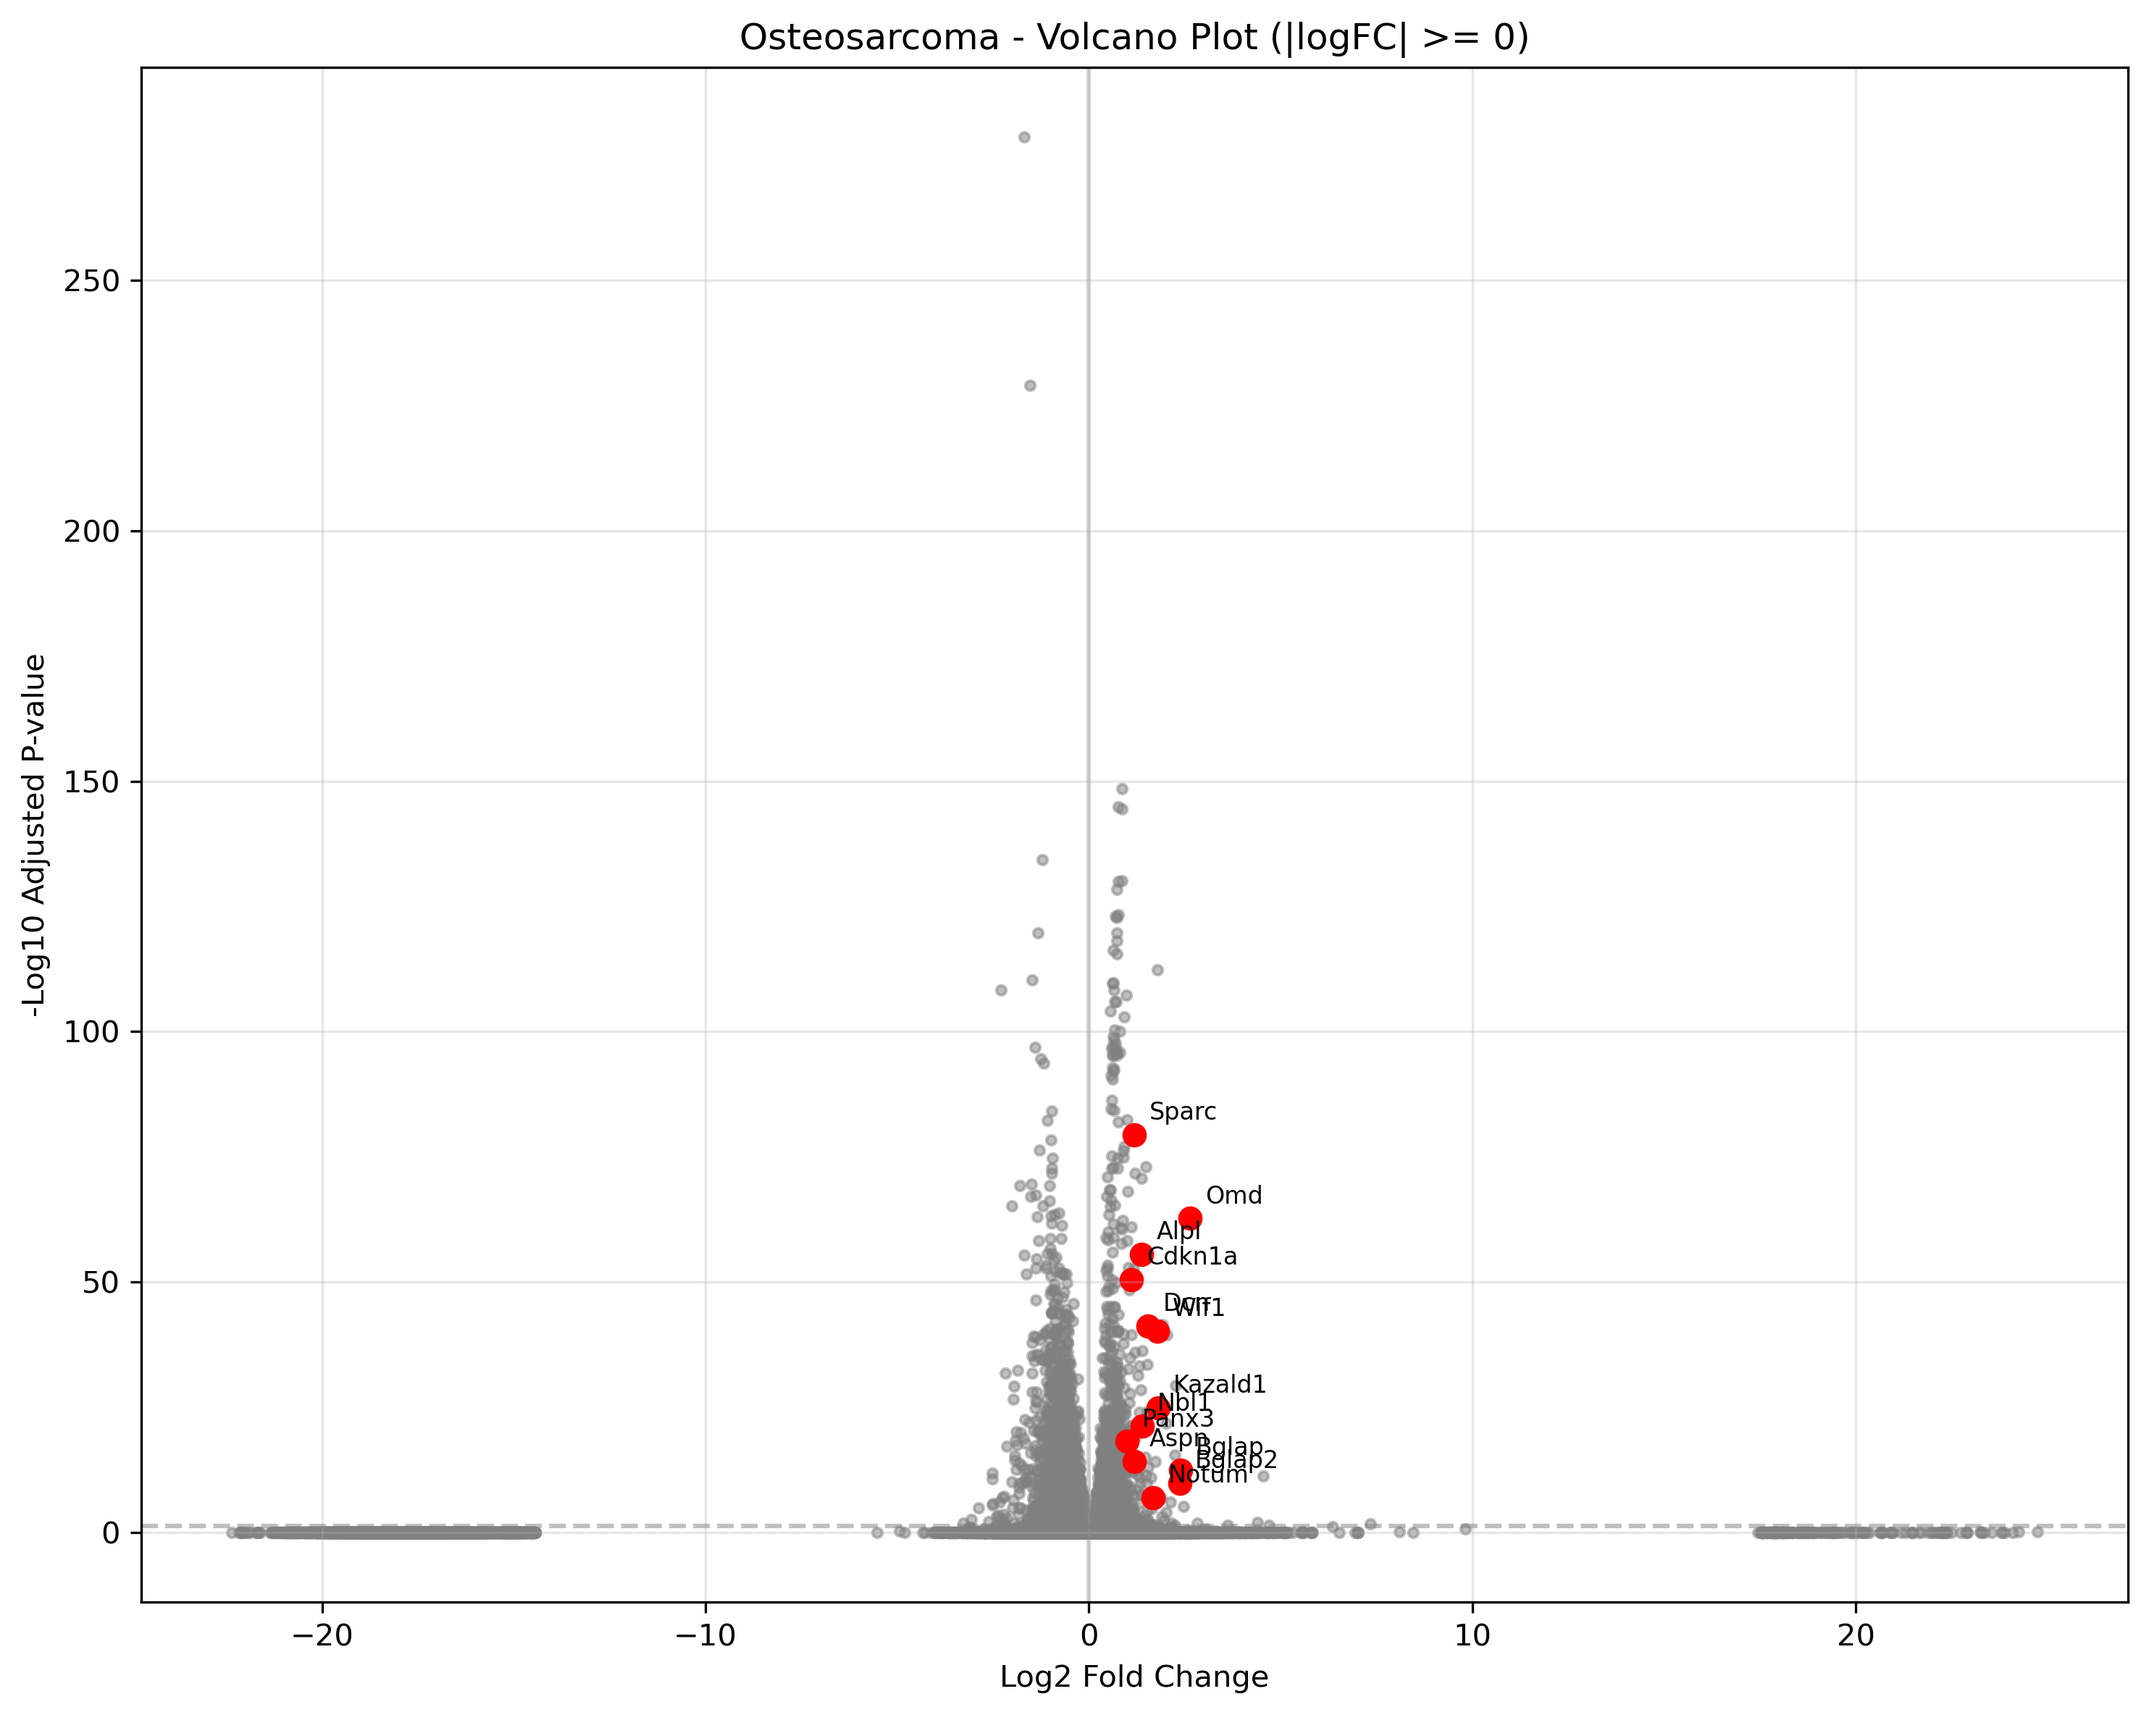
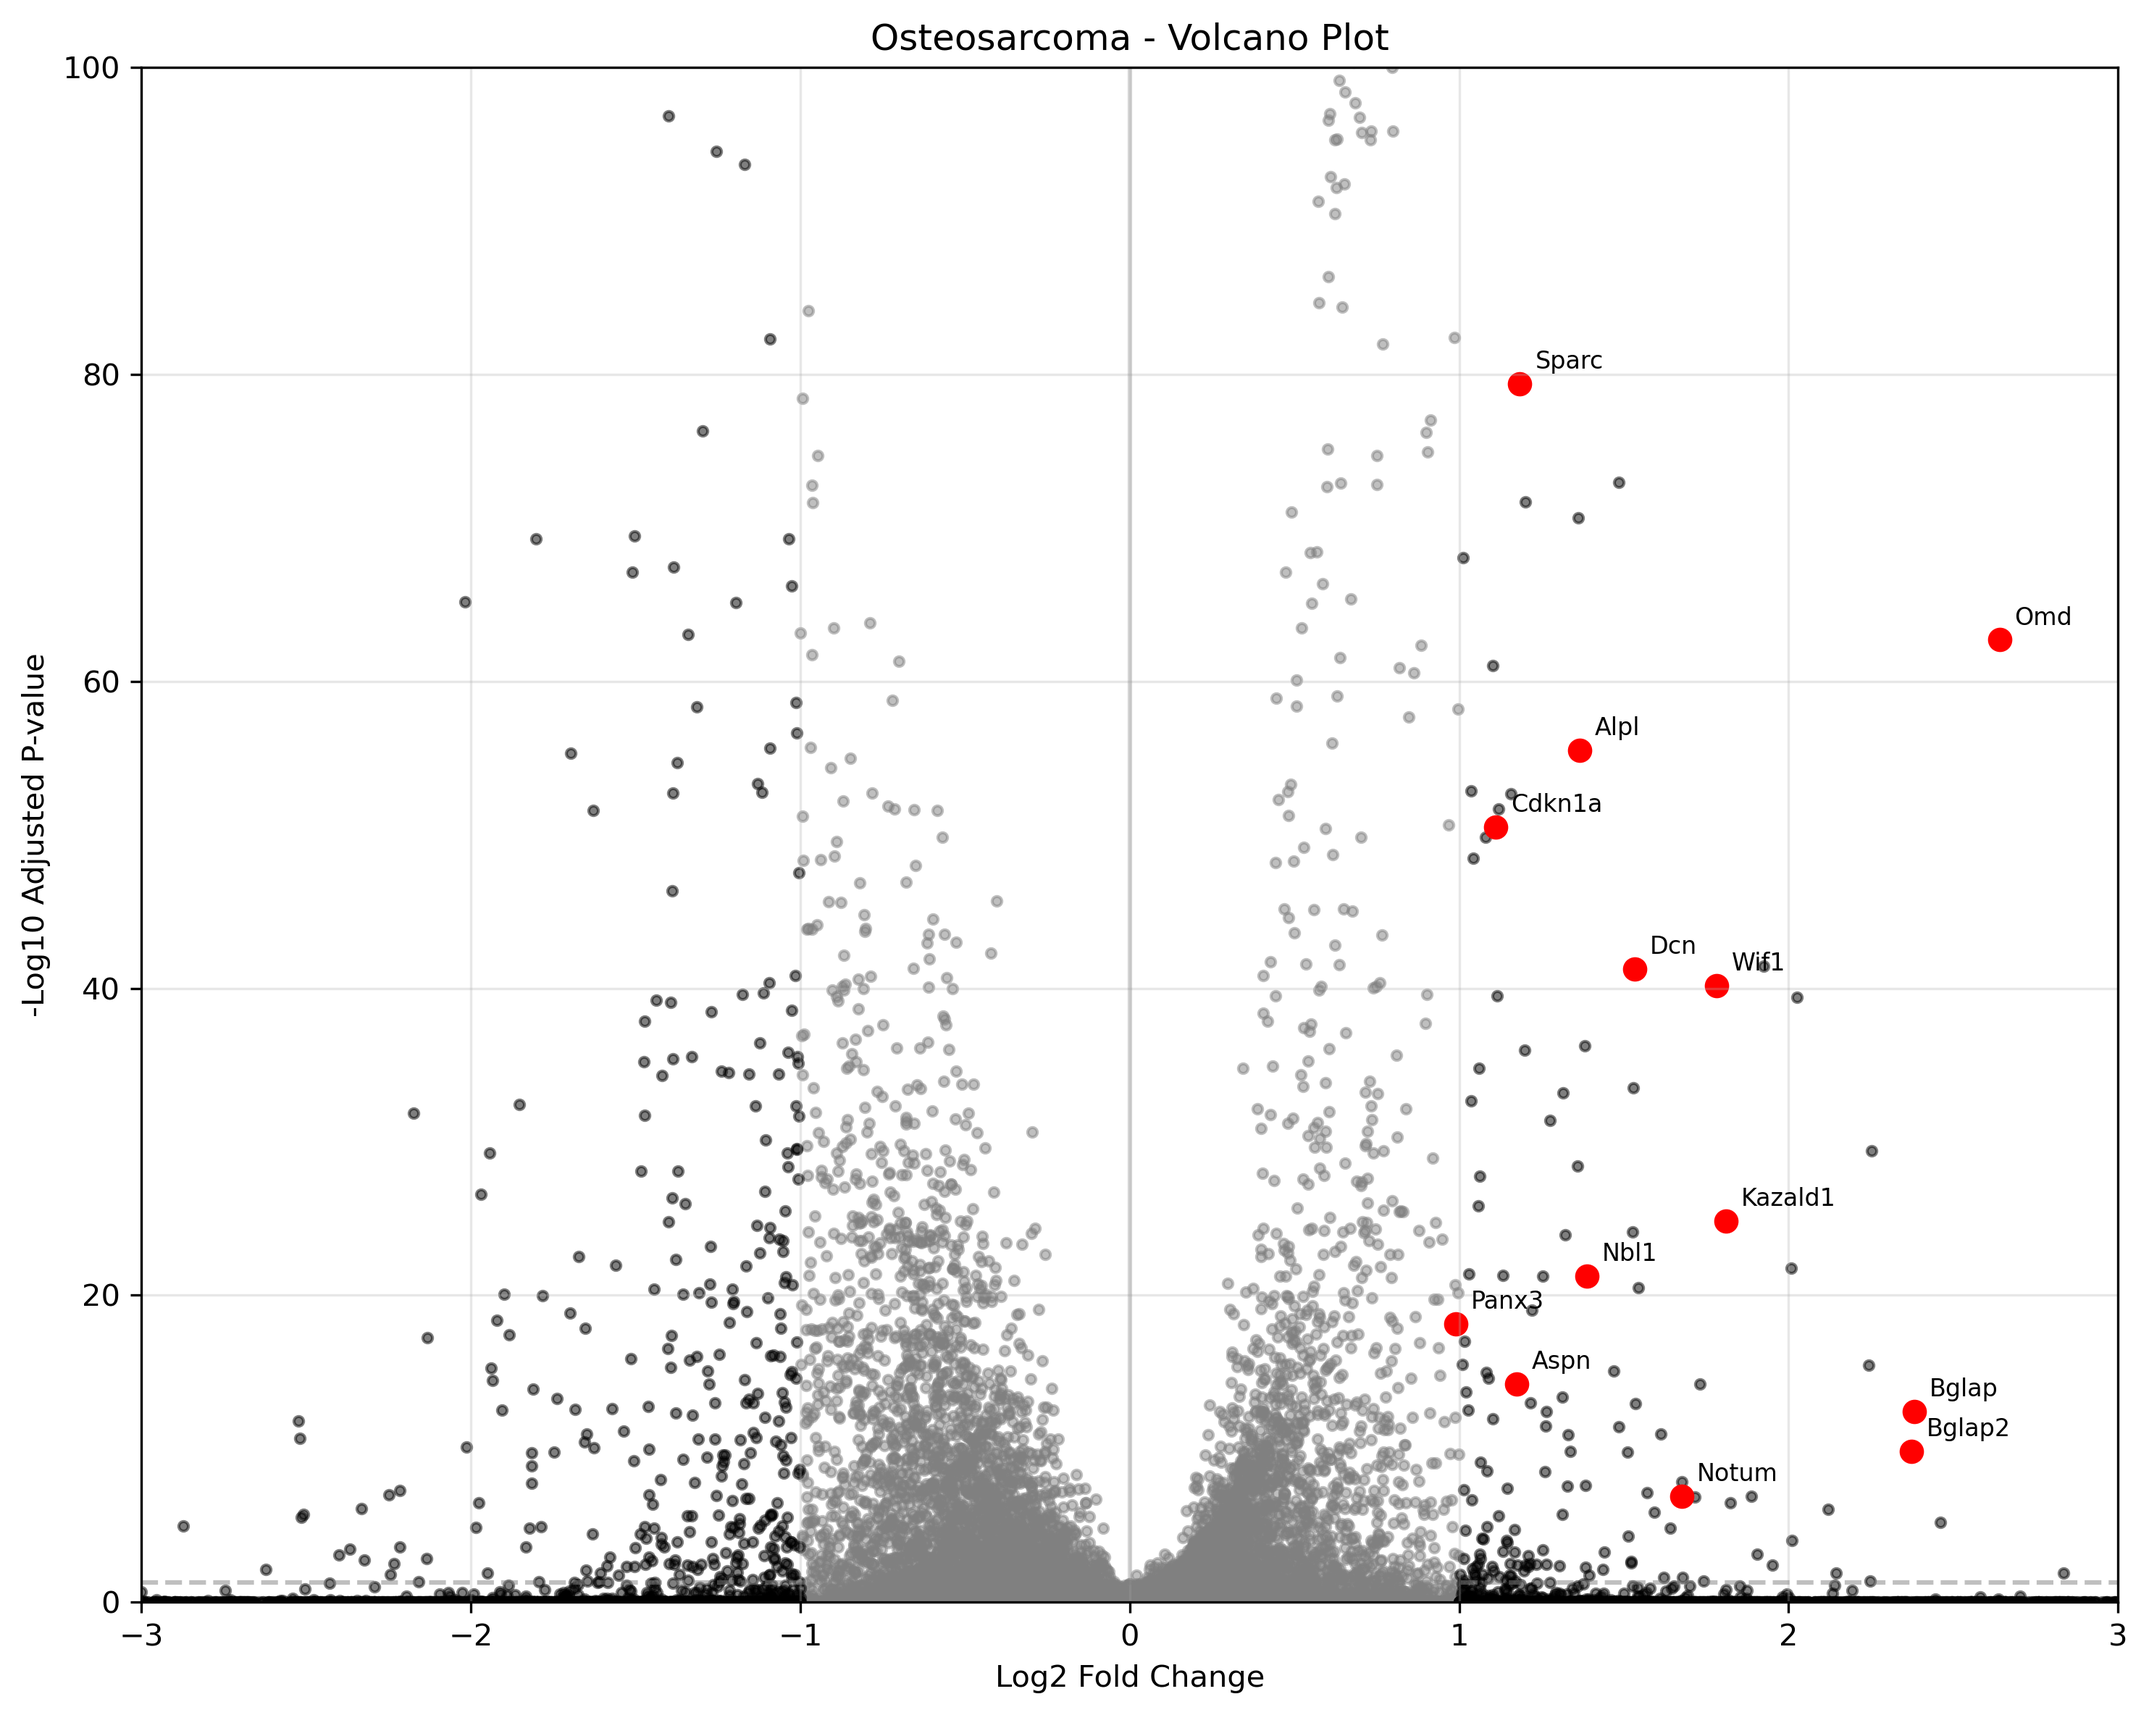
Update Osteasarcoma violin and volcano plots

diff --git a/src/plots.py b/src/plots.py
@@ -33,21 +33,28 @@ de_results = de_results.drop_duplicates(subset='names')
 # Calculate -log10 p-value
 de_results['neg_log10_pval'] = -np.log10(de_results['pvals_adj'])
 
-# Filter genes below minLogFC cutoff (for plotting background)
-de_results_filtered = de_results[abs(de_results['logfoldchanges']) >= args.minLogFC]
+# Split genes based on log2FC threshold (|log2FC| < 1 vs >= 1)
+low_fc_genes = de_results[abs(de_results['logfoldchanges']) < 1]
+high_fc_genes = de_results[abs(de_results['logfoldchanges']) >= 1]
 
-print(f"Filtered from {len(de_results)} to {len(de_results_filtered)} genes (|logFC| >= {args.minLogFC})")
+print(f"Genes with |logFC| < 1: {len(low_fc_genes)}")
+print(f"Genes with |logFC| >= 1: {len(high_fc_genes)}")
 
 # Create volcano plot
 fig, ax = plt.subplots(figsize=(10, 8))
 
-# Plot filtered background genes
-ax.scatter(de_results_filtered['logfoldchanges'],
-           de_results_filtered['neg_log10_pval'],
-           alpha=0.5, s=10, color='gray')
+# Plot low FC genes (|log2FC| < 1) in grey
+ax.scatter(low_fc_genes['logfoldchanges'],
+           low_fc_genes['neg_log10_pval'],
+           alpha=0.5, s=10, color='grey')
 
-# ONLY highlight and label genes from --genes file that also pass filter
-highlight_df = de_results_filtered[de_results_filtered['names'].isin(highlight_genes)]
+# Plot high FC genes (|log2FC| >= 1) in black
+ax.scatter(high_fc_genes['logfoldchanges'],
+           high_fc_genes['neg_log10_pval'],
+           alpha=0.5, s=10, color='black')
+
+# Highlight specific genes of interest (from --genes file) in red
+highlight_df = de_results[de_results['names'].isin(highlight_genes)]
 
 for idx, row in highlight_df.iterrows():
     ax.scatter(row['logfoldchanges'],
@@ -59,9 +66,13 @@ for idx, row in highlight_df.iterrows():
                 textcoords='offset points',
                 fontsize=8)
 
+# Set axis limits
+ax.set_xlim(-3, 3)
+ax.set_ylim(0, 100)
+
 ax.set_xlabel('Log2 Fold Change')
 ax.set_ylabel('-Log10 Adjusted P-value')
-ax.set_title(f'{args.prefix} - Volcano Plot (|logFC| >= {args.minLogFC})')
+ax.set_title(f'{args.prefix} - Volcano Plot')
 ax.axhline(y=-np.log10(0.05), color='gray', linestyle='--', alpha=0.5)
 ax.axvline(x=0, color='gray', linestyle='-', alpha=0.3)
 ax.grid(True, alpha=0.3)
@@ -85,26 +96,47 @@ for gene in highlight_genes:
         fig, axes = plt.subplots(1, len(samples), figsize=(5*len(samples), 5))
         if len(samples) == 1:
             axes = [axes]
-        
+
         for ax, sample in zip(axes, samples):
             sample_adata = adata[adata.obs['sample'] == sample]
             sc.pl.umap(sample_adata, color=gene, ax=ax, show=False, title=f"{sample}\n{gene}")
-        
+
         plt.suptitle(f"{gene} expression across samples")
         plt.tight_layout()
         plt.savefig(f"figures/{args.prefix}_{gene}_featureplot.png", dpi=300, bbox_inches="tight")
         plt.close()
         print(f"Saved feature plot for {gene}")
 
+
 # ----------------------------
 # VIOLIN PLOTS for each gene
 # ----------------------------
 print("Creating violin plots...")
 
+# Get samples in reverse order
+samples_reversed = adata.obs['sample'].unique()[::-1]
+
 for gene in highlight_genes:
     if gene in adata.var_names:
-        sc.pl.violin(adata, gene, groupby='sample', show=False, 
-                     save=f"_{args.prefix}_{gene}_violin.png")
+        # Create smaller figure
+        fig, ax = plt.subplots(figsize=(4, 4))
+        sc.pl.violin(adata, gene, groupby='sample', ax=ax, show=False,
+                     order=samples_reversed)
+
+        # Change colors to red and green
+        # Get the violin patches and change their colors
+        for i, patch in enumerate(ax.collections):
+            if i < 2:  # Only first two collections are the violins
+                if i == 0:
+                    patch.set_facecolor('darkred')
+                    patch.set_edgecolor('darkred')
+                elif i == 1:
+                    patch.set_facecolor('seagreen')
+                    patch.set_edgecolor('seagreen')
+
+        plt.tight_layout()
+        plt.savefig(f"figures/{args.prefix}_{gene}_violin.png", dpi=600, bbox_inches="tight")
+        plt.close()
         print(f"Saved violin plot for {gene}")
 
 # ----------------------------
@@ -112,7 +144,7 @@ for gene in highlight_genes:
 # ----------------------------
 print("Creating dotplot...")
 
-sc.pl.dotplot(adata, highlight_genes, groupby='sample', 
+sc.pl.dotplot(adata, highlight_genes, groupby='sample',
               show=False, save=f"_{args.prefix}_dotplot.png")
 
 print(f"Saved dotplot to figures/{args.prefix}_dotplot.png")

diff --git a/README.md b/README.md
@@ -376,7 +376,7 @@ Differential gene expression (DGE) was performed using a Wilcoxon rank-sum test 
 
 #### Volcano plot higlighting genes of interest 
 
-![](figures/Osteosarcoma_volcano.png?v=6) 
+![](figures/Osteosarcoma_volcano.png?v=7) 
 
 #### Dotplot for genes of interest in Osteosarcoma 
 
@@ -384,11 +384,11 @@ Differential gene expression (DGE) was performed using a Wilcoxon rank-sum test 
 
 #### Violin plots for genes of interest in Osteosarcoma 
 
-<img src="figures/violin_Osteosarcoma_Aspn_violin.png?v=1" width="33%" /><img src="figures/violin_Osteosarcoma_Bglap2_violin.png?v=1" width="33%" /><img src="figures/violin_Osteosarcoma_Bglap_violin.png?v=1" width="33%" />
-<img src="figures/violin_Osteosarcoma_Kazald1_violin.png?v=1" width="33%" /><img src="figures/violin_Osteosarcoma_Nbl1_violin.png?v=1" width="33%" /><img src="figures/violin_Osteosarcoma_Notum_violin.png?v=1" width="33%" />
-<img src="figures/violin_Osteosarcoma_Panx3_violin.png?v=1" width="33%" /><img src="figures/violin_Osteosarcoma_Alpl_violin.png?v=1" width="33%" /><img src="figures/violin_Osteosarcoma_Cdkn1a_violin.png?v=1" width="33%" />
-<img src="figures/violin_Osteosarcoma_Dcn_violin.png?v=1" width="33%" /><img src="figures/violin_Osteosarcoma_Omd_violin.png?v=1" width="33%" /><img src="figures/violin_Osteosarcoma_Sparc_violin.png?v=1" width="33%" />
-<img src="figures/violin_Osteosarcoma_Wif1_violin.png?v=1" width="33%" />
+<img src="figures/violin_Osteosarcoma_Aspn_violin.png?v=2" width="33%" /><img src="figures/violin_Osteosarcoma_Bglap2_violin.png?v=2" width="33%" /><img src="figures/violin_Osteosarcoma_Bglap_violin.png?v=2" width="33%" />
+<img src="figures/violin_Osteosarcoma_Kazald1_violin.png?v=2" width="33%" /><img src="figures/violin_Osteosarcoma_Nbl1_violin.png?v=2" width="33%" /><img src="figures/violin_Osteosarcoma_Notum_violin.png?v=2" width="33%" />
+<img src="figures/violin_Osteosarcoma_Panx3_violin.png?v=2" width="33%" /><img src="figures/violin_Osteosarcoma_Alpl_violin.png?v=2" width="33%" /><img src="figures/violin_Osteosarcoma_Cdkn1a_violin.png?v=2" width="33%" />
+<img src="figures/violin_Osteosarcoma_Dcn_violin.png?v=2" width="33%" /><img src="figures/violin_Osteosarcoma_Omd_violin.png?v=2" width="33%" /><img src="figures/violin_Osteosarcoma_Sparc_violin.png?v=2" width="33%" />
+<img src="figures/violin_Osteosarcoma_Wif1_violin.png?v=2" width="33%" />
 
 #### Feature plots for genes of interest in Osteosarcoma
 
